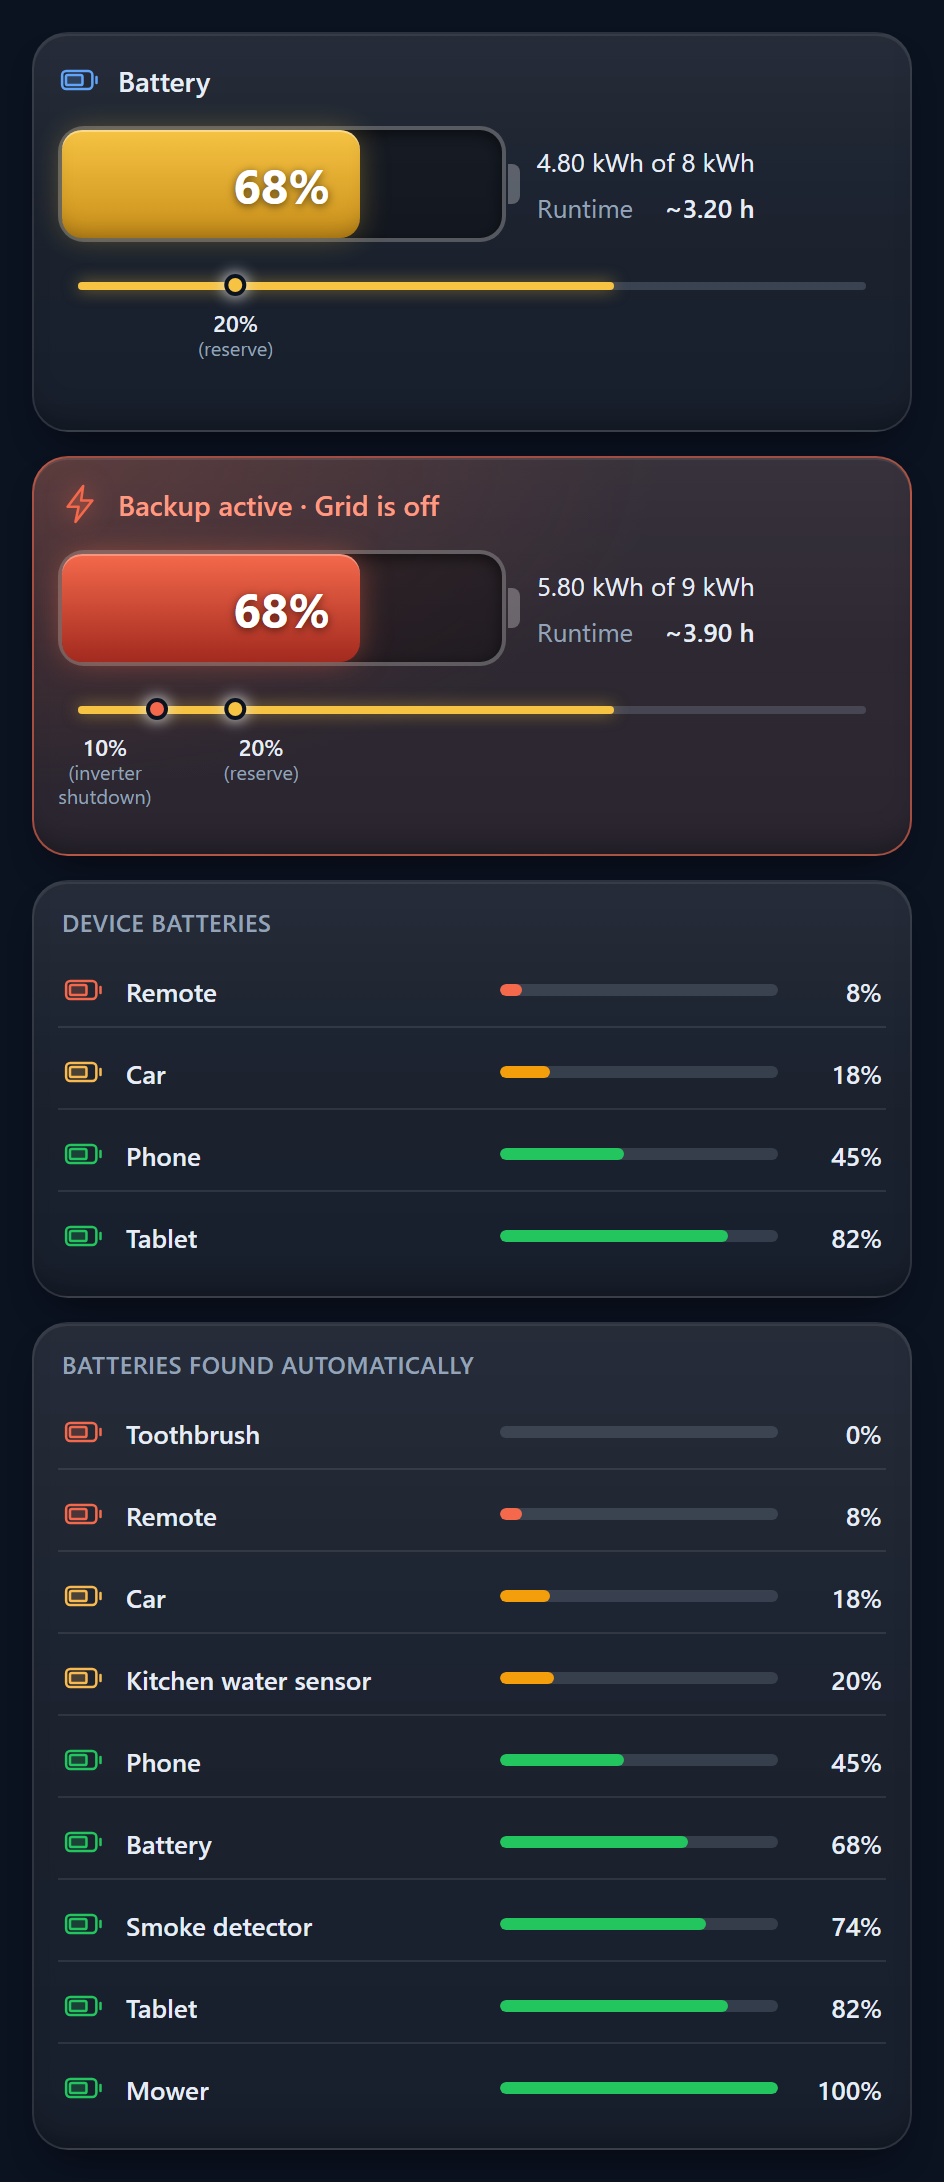
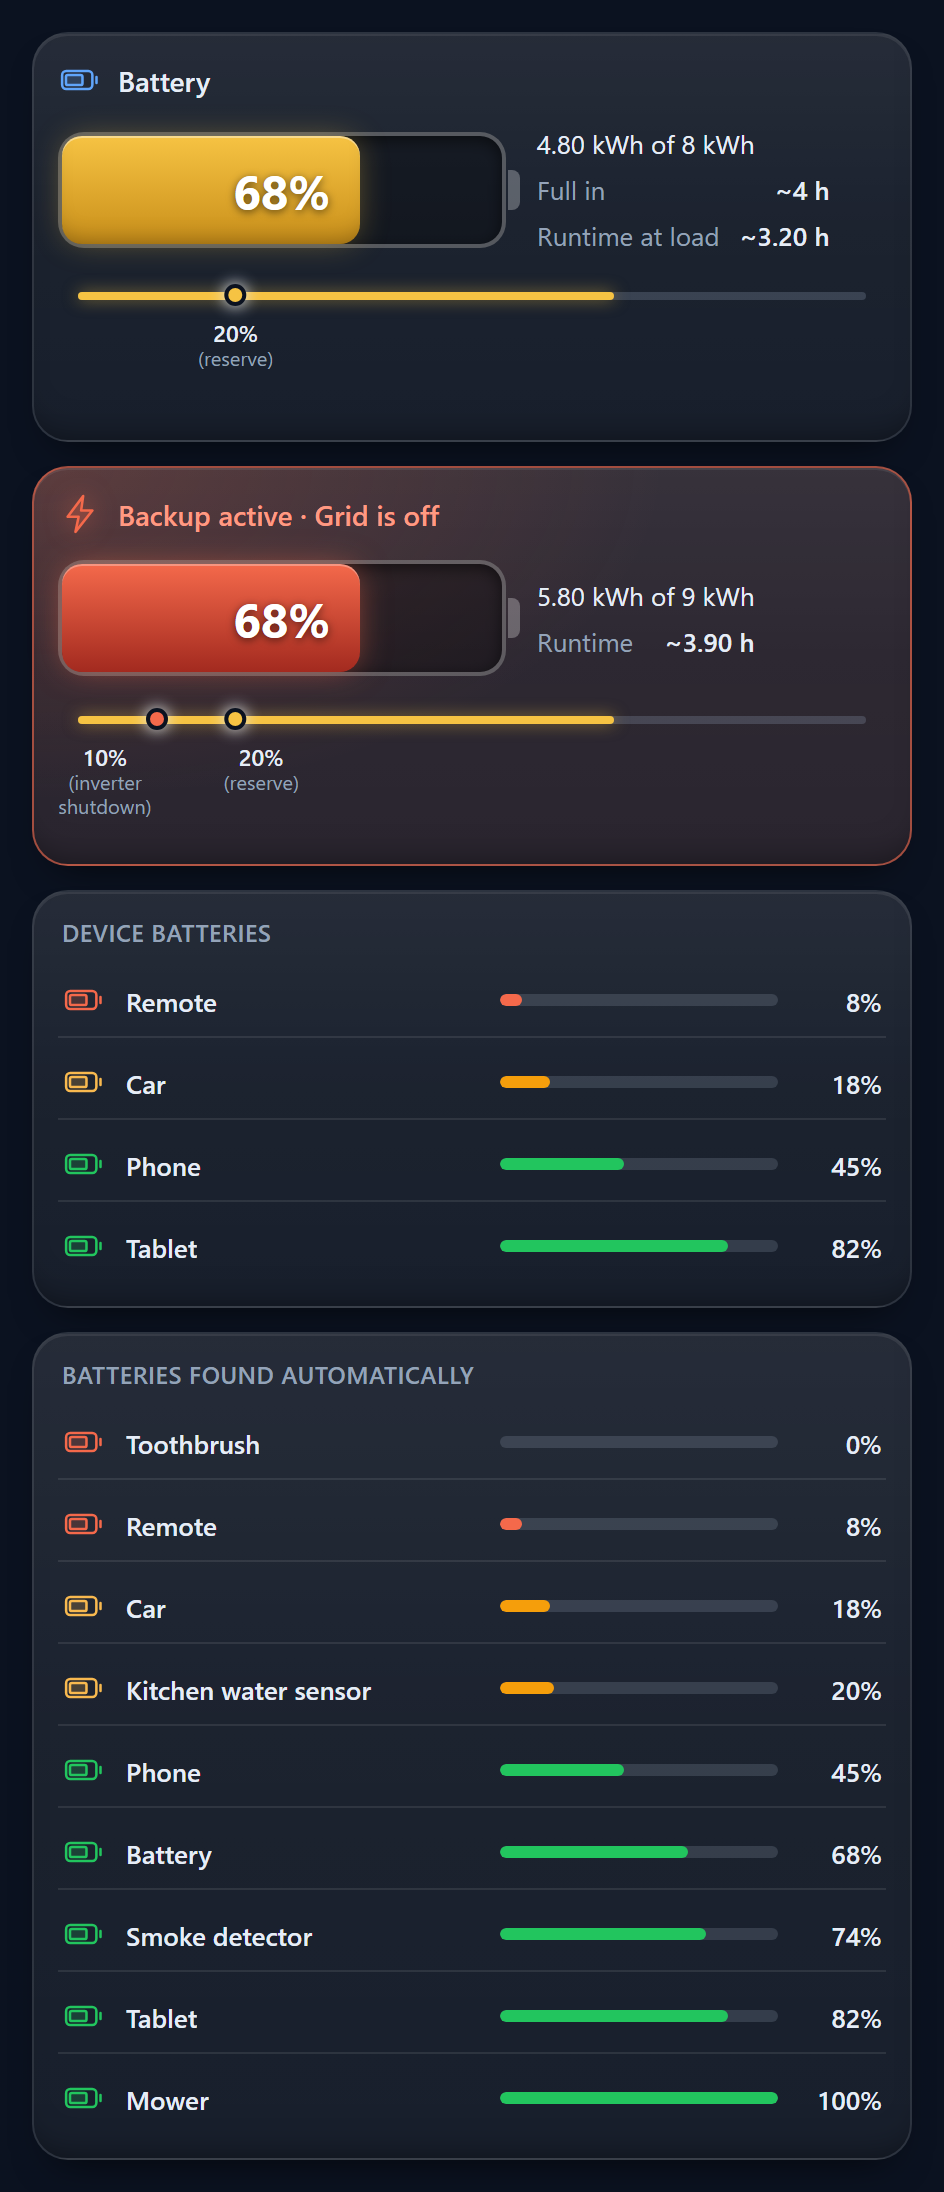
0.9.3: battery runtime from summed loads, 'Full in' while charging

diff --git a/ccu.js b/ccu.js
@@ -717,6 +717,13 @@ const EN = {
  "Utilizabil până la {p}%": "Usable down to {p}%",
  "Pe zi (100→{p}%)": "Per day (100→{p}%)",
  "{a} kWh": "{a} kWh",
+ "Plin în": "Full in",
+ "Autonomie la consum": "Runtime at load",
+ "Alți consumatori (se adună la consum)": "Other loads (added to the load)",
+ "Putere baterie (W)": "Battery power (W)",
+ "Inversează semnul puterii": "Invert the power sign",
+ "Dacă bateria alimentează mai multe circuite, adaugă-le aici: autonomia se calculează la suma lor.": "If the battery feeds several circuits, add them here: the runtime is calculated for their sum.",
+ "+ = descărcare, − = încărcare. Cât timp se încarcă, cardul arată „Plin în”.": "+ = discharging, − = charging. While it charges, the card shows “Full in”.",
  "Încălzire": "Heat",
  "Răcire": "Cool",
  "Uscare": "Dry",
@@ -3596,7 +3603,7 @@ function normalizeBatteryConfig(cfg) {
   const soc = ent('soc');
   if (!soc) warnings.push(t('Baterie: lipsește „soc” (entitatea cu procentul bateriei).'));
   const cfgOut = {
-    soc, capacity_entity: ent('capacity_entity'), power: ent('power'), load: ent('load'), grid_present: ent('grid_present'),
+    soc, capacity_entity: ent('capacity_entity'), power: ent('power'), power_invert: src.power_invert === true, load: ent('load'), load_entities: (Array.isArray(src.load_entities) ? src.load_entities : src.load_entities ? [src.load_entities] : []).map(String).filter(okId), grid_present: ent('grid_present'),
     capacity_kwh: num('capacity_kwh', 0, 0.1, 1000), reserve_pct: num('reserve_pct', 20, 0, 100), shutdown_pct: num('shutdown_pct', 10, 0, 100),
     title: src.title ? String(src.title) : t('Baterie'), show_title: src.show_title !== false, color: ['yellow', 'green', 'blue', 'orange'].includes(src.color) ? src.color : 'yellow',
   };
@@ -3613,7 +3620,13 @@ function buildBatteryModel(config, hass) {
   const capE = toKwh(st(config.capacity_entity));
   const total = capE !== null && capE > 0 ? capE : (config.capacity_kwh || null);
   const now = soc !== null && total ? (soc / 100) * total : null;
-  const loadW = toWatts(st(config.load));
+  // consumul = `load` + `load_entities` (se adună); dacă una dintre ele nu are valoare, autonomia nu se calculează (altfel ar ieși prea optimistă)
+  const loadIds = [config.load].concat(config.load_entities || []).filter(Boolean);
+  const loadVals = loadIds.map((id) => toWatts(st(id)));
+  const loadW = loadVals.length && loadVals.every((w) => w !== null) ? loadVals.reduce((a, b) => a + b, 0) : null;
+  // încărcare: puterea bateriei are convenția fluxului (+ = descărcare, − = încărcare; `power_invert: true` o întoarce)
+  let pw = toWatts(st(config.power)); if (pw !== null && config.power_invert) pw = -pw;
+  const chargeW = pw !== null && pw < -THRESH_W ? -pw : null;
   const gp = st(config.grid_present);
   const backup = !!gp && gp.state === 'off';
   // banda utilizabilă = [prag, 100]%: cu rețea pragul e rezerva (reserve_pct), fără rețea (backup) pragul de oprire (shutdown_pct).
@@ -3624,8 +3637,10 @@ function buildBatteryModel(config, hass) {
   let autonomyH = null;
   if (usable !== null && loadW !== null && loadW >= THRESH_W) autonomyH = (usable * 1000) / loadW;
   const state = soc === null ? 'na' : backup ? 'backup' : soc <= config.reserve_pct ? 'low' : 'ok';
+  const charging = chargeW !== null && soc !== null && soc < 100;
+  const fullH = charging && total ? (((100 - soc) / 100) * total * 1000) / chargeW : null;   // timp până la 100% la puterea de încărcare de acum
   const hh = (h) => (h === null ? '—' : h >= 100 ? '>99 h' : `~${formatNumber(Math.round(h * 10) / 10)} h`);
-  return { soc, total, now, autonomyH, usable, bandTotal, floor, state, backup, socText: soc === null ? '—' : `${Math.round(soc)}%`,
+  return { soc, total, now, autonomyH, usable, bandTotal, floor, state, backup, charging, chargeW, fullH, fullText: hh(fullH), loadW, socText: soc === null ? '—' : `${Math.round(soc)}%`,
     energyText: usable !== null && bandTotal !== null ? t('{a} kWh din {b} kWh', { a: formatNumber(Math.round(usable * 10) / 10), b: formatNumber(Math.round(bandTotal * 10) / 10) }) : (bandTotal !== null ? t('— din {b} kWh', { b: formatNumber(Math.round(bandTotal * 10) / 10) }) : ''),
     autonomyText: hh(autonomyH) };
 }
@@ -3646,10 +3661,10 @@ function renderBattery(config, m, opts = {}) {
     ? `<div class="ccu-bat-head backup"><span class="ccu-ico">${iconSvg('bolt')}</span><span>${t('Backup activ · Rețeaua este oprită')}</span></div>`
     : (config.show_title === false ? '' : `<div class="ccu-bat-head"><span class="ccu-ico">${iconSvg('battery')}</span><span>${esc(config.title)}</span></div>`);   // show_title: false = fără titlu „Baterie” + iconiță
   const body = `<div class="ccu-bat-body"><div class="ccu-bat-shell" data-state="${m.state}"><div class="fill" style="width:${pct}%;background:linear-gradient(180deg,${c0},${c1})"></div><span class="pct">${esc(m.socText)}</span></div>`
-    + `<div class="ccu-bat-info"><span class="e">${esc(m.energyText)}</span><span class="a"><i>${t('Autonomie')}</i><b>${esc(m.autonomyText)}</b></span></div></div>`;
+    + `<div class="ccu-bat-info"><span class="e">${esc(m.energyText)}</span>${m.charging ? `<span class="a ch"><i>${t('Plin în')}</i><b>${esc(m.fullText)}</b></span>` : ''}<span class="a"><i>${m.charging ? t('Autonomie la consum') : t('Autonomie')}</i><b>${esc(m.autonomyText)}</b></span></div></div>`;
   const slider = `<div class="ccu-bat-slider"><div class="tr"><div class="fl" style="width:${pct}%"></div></div>${mk}</div>`;
   const notes = opts.warnings && opts.warnings.length ? `<div class="ccu-note">${opts.warnings.slice(0, 3).map(esc).join('<br>')}</div>` : '';
-  return `<div class="ccu-card panel ccu-bat" data-state="${m.state}" data-id="0" data-entity="${esc(config.soc)}">${head}${body}${slider}${notes}</div>`;
+  return `<div class="ccu-card panel ccu-bat" data-state="${m.state}"${m.charging ? ' data-charging="1"' : ''} data-id="0" data-entity="${esc(config.soc)}">${head}${body}${slider}${notes}</div>`;
 }
 
 
@@ -4878,10 +4893,10 @@ function defineEditors() {
     _body() {
       return [
         this._fields([], t('Baterie'), t('Nivelul de încărcare și, opțional, capacitatea și consumul pentru autonomie.'), [
-          { name: 'soc', selector: SENSOR() }, { name: 'load', selector: SENSOR() }, grid({ name: 'capacity_entity', selector: SENSOR() }, { name: 'capacity_kwh', selector: NUM(0, 1000, 0.1) }), { name: 'grid_present', selector: ENT({ domain: 'binary_sensor' }) },
+          { name: 'soc', selector: SENSOR() }, { name: 'load', selector: SENSOR() }, { name: 'load_entities', selector: SENSOR({ multiple: true }) }, grid({ name: 'power', selector: SENSOR() }, { name: 'power_invert', selector: BOOL }), grid({ name: 'capacity_entity', selector: SENSOR() }, { name: 'capacity_kwh', selector: NUM(0, 1000, 0.1) }), { name: 'grid_present', selector: ENT({ domain: 'binary_sensor' }) },
           grid({ name: 'reserve_pct', selector: NUM(0, 100) }, { name: 'shutdown_pct', selector: NUM(0, 100) }), grid({ name: 'color', selector: SEL(['yellow', 'green', 'blue', 'orange']) }, { name: 'show_title', selector: BOOL })],
-          { soc: t('Nivel încărcare (%)'), load: t('Consum curent (W)'), capacity_entity: t('Senzor capacitate'), capacity_kwh: t('sau capacitate (kWh)'), grid_present: t('Rețea prezentă (senzor binar)'), reserve_pct: t('Rezervă (%)'), shutdown_pct: t('Oprire (%)'), color: t('Culoare'), show_title: t('Arată titlul') },
-          { grid_present: t('Când e oprit, cardul arată „Backup activ”.') }, { defTrue: ['show_title'] }),
+          { soc: t('Nivel încărcare (%)'), load: t('Consum curent (W)'), load_entities: t('Alți consumatori (se adună la consum)'), power: t('Putere baterie (W)'), power_invert: t('Inversează semnul puterii'), capacity_entity: t('Senzor capacitate'), capacity_kwh: t('sau capacitate (kWh)'), grid_present: t('Rețea prezentă (senzor binar)'), reserve_pct: t('Rezervă (%)'), shutdown_pct: t('Oprire (%)'), color: t('Culoare'), show_title: t('Arată titlul') },
+          { grid_present: t('Când e oprit, cardul arată „Backup activ”.'), load_entities: t('Dacă bateria alimentează mai multe circuite, adaugă-le aici: autonomia se calculează la suma lor.'), power: t('+ = descărcare, − = încărcare. Cât timp se încarcă, cardul arată „Plin în”.') }, { defTrue: ['show_title'] }),
       ];
     }
   }

diff --git a/docs/demo/scenes.js b/docs/demo/scenes.js
@@ -111,7 +111,7 @@
     remote: { w: 340, cards: [{ type: 'custom:ccu-remote-card', title: 'Living room TV', entity: 'remote.living_room_tv', extra: [{ label: 'Stream', icon: 'play', command: 'KEY_APP' }] }] },
     flow: { w: 480, cards: [{ type: 'custom:ccu-flow-card', title: 'Energy flow', solar: 'sensor.solar_power', grid: { entity: 'sensor.grid_power', invert: true }, battery: { entity: 'sensor.battery_power', soc: 'sensor.battery_soc' }, consumers: [{ entity: 'sensor.house_power', name: 'House', icon: 'mdi:home' }, { entities: ['sensor.shed_a', 'sensor.shed_b', 'sensor.shed_c'], name: 'Workshop', icon: 'mdi:warehouse' }, { entity: 'sensor.pool_power', name: 'Pool', icon: 'mdi:pool' }, { entity: 'sensor.ev_power', name: 'EV charger', icon: 'mdi:car-electric' }], stats: [{ entity: 'sensor.import_today', label: 'Import today', icon: 'mdi:transmission-tower' }, { entity: 'sensor.export_today', label: 'Export today', icon: 'mdi:flash' }, { entity: 'sensor.battery_charged_today', label: 'Charged today', icon: 'mdi:battery-charging' }] }] },
     battery: { w: 440, cards: [
-      { type: 'custom:ccu-battery-card', soc: 'sensor.battery_soc', capacity_kwh: 10, load: 'sensor.load_power', grid_present: 'binary_sensor.grid_present', reserve_pct: 20, shutdown_pct: 10 },
+      { type: 'custom:ccu-battery-card', soc: 'sensor.battery_soc', capacity_kwh: 10, load: 'sensor.load_power', power: 'sensor.battery_power', grid_present: 'binary_sensor.grid_present', reserve_pct: 20, shutdown_pct: 10 },
       { type: 'custom:ccu-battery-card', soc: 'sensor.battery_soc', capacity_kwh: 10, load: 'sensor.load_power', grid_present: 'binary_sensor.grid_down', reserve_pct: 20, shutdown_pct: 10 },
       { type: 'custom:ccu-batteries-card', title: 'Device batteries', entities: ['sensor.tablet_battery', 'sensor.phone_battery', 'sensor.car_battery', 'sensor.remote_battery'] },
       { type: 'custom:ccu-batteries-card', title: 'Batteries found automatically', auto: { threshold: 20 } },

diff --git a/README.ro.md b/README.ro.md
@@ -249,6 +249,8 @@ type: custom:ccu-battery-card
 soc: sensor.invertor_deye_battery
 capacity_entity: sensor.invertor_deye_battery_capacity   # sau capacity_kwh: 38.6
 load: sensor.invertor_deye_load_power                    # pentru autonomie (până la rezervă, la consumul curent)
+load_entities: [sensor.alt_consum]                       # opțional: alte circuite pe baterie, se adună la `load`
+power: sensor.putere_baterie                             # opțional: + = descărcare, − = încărcare (power_invert: true o întoarce)
 grid_present: binary_sensor.invertor_deye_grid           # off = „Backup activ”; unavailable NU declanșează backup
 reserve_pct: 20
 shutdown_pct: 10
@@ -259,6 +261,8 @@ Cum se calculează (exact, din procente și capacitate; se rotunjește doar la a
 
 - **Cu rețea**: banda utilizabilă e `reserve_pct` → 100 %. Cardul arată energia din bandă, „X kWh din Y kWh”, cu Y = (100 − rezervă)% × capacitate, și autonomia până la rezervă, la consumul curent.
 - **Fără rețea (backup activ)**: banda devine `shutdown_pct` → 100 %, același „X kWh din Y kWh” și autonomia până la pragul de oprire. Doar atunci apar „Backup activ” și marcajul de oprire.
+- **Autonomia** = energia utilizabilă împărțită la consumul curent (`load` plus `load_entities`, adunate), ca și cum încărcarea s-ar opri acum. Dacă vreunul dintre senzori nu are valoare, nu se afișează autonomia, în loc să iasă prea optimistă.
+- **Cât timp se încarcă** (cere `power`) cardul arată și „Plin în” (timpul până la 100 % la puterea de încărcare de acum), iar autonomia are eticheta „la consum”.
 - Schimbi `reserve_pct` (de exemplu 20 → 30) și totul se recalculează. Procentul mare e mereu starea reală de încărcare.
 
 

diff --git a/README.md b/README.md
@@ -338,6 +338,8 @@ type: custom:ccu-battery-card
 soc: sensor.battery_soc
 capacity_entity: sensor.battery_capacity      # or capacity_kwh: 38.6
 load: sensor.load_power                       # for the runtime estimate
+load_entities: [sensor.other_load]            # optional: more loads on the battery, added to `load`
+power: sensor.battery_power                   # optional: + = discharging, − = charging (power_invert: true flips it)
 grid_present: binary_sensor.grid              # off = “Backup active”
 reserve_pct: 20
 shutdown_pct: 10
@@ -347,6 +349,8 @@ How the numbers are computed (exactly, from percentages and capacity; rounding o
 
 - **With grid**: the usable band is `reserve_pct` → 100 %. The card shows the energy in that band, “X kWh of Y kWh”, with Y = (100 − reserve)% × capacity, and the runtime until the reserve at the current load.
 - **Without grid (backup active)**: the band becomes `shutdown_pct` → 100 %, the same “X kWh of Y kWh” and the runtime until the shutdown level. Only then the card shows “Backup active” and the shutdown marker.
+- **The runtime** is the usable energy divided by the current load (`load` plus `load_entities`, summed), as if the charging stopped now. If any of those sensors has no value, no runtime is shown rather than a too-optimistic one.
+- **While charging** (needs `power`) the card also shows “Full in” (time to 100 % at the current charging power), and the runtime is labelled “at current load”.
 - Change `reserve_pct` (for example 20 → 30) and everything follows. The big percentage is always the real state of charge.
 
 

diff --git a/CHANGELOG.md b/CHANGELOG.md
@@ -1,5 +1,9 @@
 # Istoric versiuni
 
+## 0.9.3
+- **Baterie:** autonomia se calculează la suma consumului din `load` și din noua listă `load_entities` (pentru bateria care alimentează mai multe circuite; se alege și din editor). Dacă un senzor nu are valoare, nu se mai afișează o autonomie prea optimistă.
+- **Baterie, cât timp se încarcă:** cu senzorul `power` (+ = descărcare, − = încărcare; `power_invert` îl întoarce) cardul arată „Plin în” (timpul până la 100 % la puterea de încărcare de acum), iar autonomia are eticheta „la consum”, ca să nu fie luată drept timp de descărcare.
+
 ## 0.9.2
 - **Mișcare și baterie:** opțiunea `motion` pe fiecare card (`auto` | `full` | `calm` | `off`, și în editorul vizual). Implicit `auto`: pe tabletă și PC animațiile merg continuu, pe telefon (latura mică a ecranului sub 600 px) sunt `calm` — câteva secunde la fiecare schimbare de stare, apoi static. `weather_effects` și `flow_animation` (`auto` | `on` | `off`) controlează separat efectele din vreme și punctele din flux. `animations: false` și „reduce motion” funcționează ca înainte.
 - **Reparat:** chip-ul de termene mașini avea un pătrat negru în loc de iconița calendarului.
